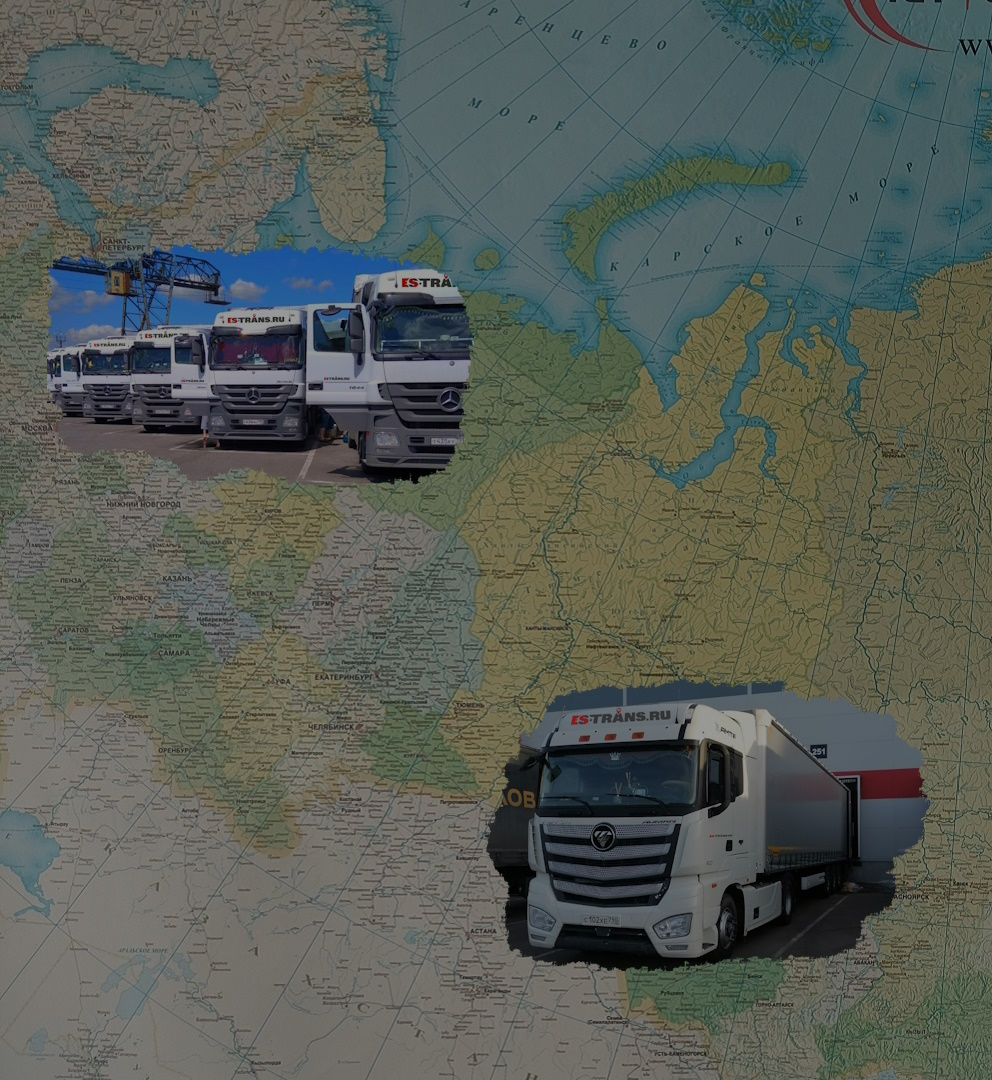
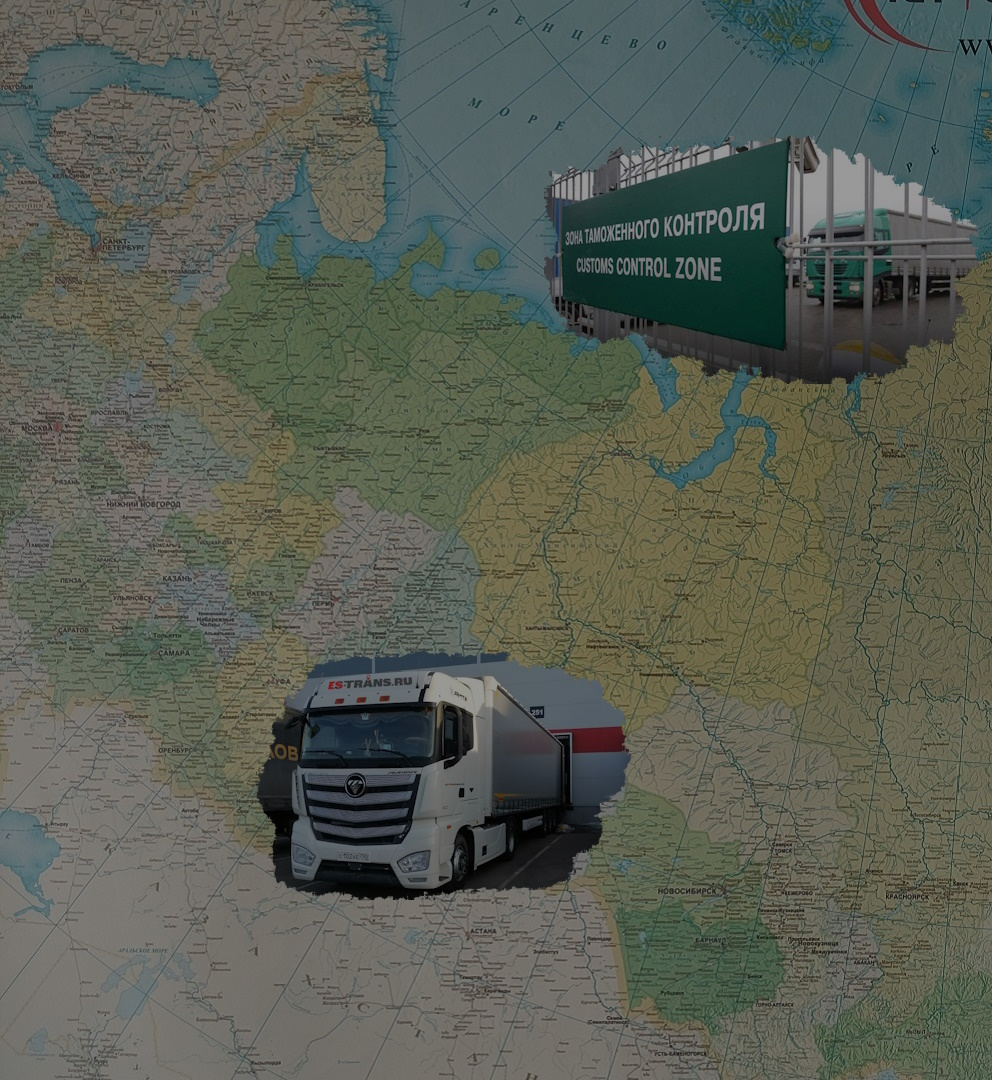
home media 490px

Changed region(s): [[0.25, 0.5806, 0.9375, 0.9167], [0.0312, 0.2139, 0.5, 0.4583], [0.5312, 0.1222, 1.0, 0.3667]]

diff --git a/src/home.html b/src/home.html
@@ -11,59 +11,64 @@
 			<section class="home" data-watch="navigator" data-watch-threshold="0.55">
 				<div class="home__container">
 					<div class="home__content">
-						<div class="home__name-block">
-							<h1 class="home__title" data-watch data-watch-once>ЕС Транс</h1>
-							<p class="home__label" data-watch data-watch-once>Доставим и растаможим</p>
+						<div class="home__content-top">
+							<div class="home__name-block">
+								<h1 class="home__title" data-watch data-watch-once>ЕС Транс</h1>
+								<p class="home__label" data-watch data-watch-once>Доставим и растаможим</p>
+							</div>
+							<div class="home__offer-wrap margin-bottom-60">
+								<ul class="home__list list">
+
+									<li class="list__item margin-bottom-10">
+										<svg class="home__icons">
+											<use xlink:href="@img/icons/icons.svg#check"></use>
+										</svg>
+										</p>
+										<p class="list__text">Автоперевозки из Европы, Китая и Турции, в том числе сборных и
+											опасных
+											грузов
+									</li>
+
+									<li class="list__item margin-bottom-10">
+										<svg class="home__icons">
+											<use xlink:href="@img/icons/icons.svg#check"></use>
+										</svg>
+										<p class="list__text">авиаперевозки из Китая, Индии и ОАЭ</p>
+									</li>
+
+									<li class="list__item margin-bottom-10">
+										<svg class="home__icons">
+											<use xlink:href="@img/icons/icons.svg#check"></use>
+										</svg>
+										<p class="list__text">Таможенное оформление грузов в разных регионах России
+										<p>
+									</li>
+
+									<li class="list__item margin-bottom-10">
+										<svg class="home__icons">
+											<use xlink:href="@img/icons/icons.svg#check"></use>
+										</svg>
+										<p class="list__text">Нотификация ФСБ, сертификация, заключение ФСТЭК, декларация
+											соответствия, лицензирование</p>
+									</li>
+
+									<li class="list__item margin-bottom-10">
+										<svg class="home__icons">
+											<use xlink:href="@img/icons/icons.svg#check"></use>
+										</svg>
+										<p class="list__text">Работаем в режиме 24/7 по принципу «одного окна»</p>
+									</li>
+
+								</ul>
+							</div>
 						</div>
-						<div class="home__offer-wrap margin-bottom-60">
-							<ul class="home__list list">
-
-								<li class="list__item margin-bottom-10">
-									<svg class="home__icons">
-										<use xlink:href="@img/icons/icons.svg#check"></use>
-									</svg>
-									</p>
-									<p class="list__text">Автоперевозки из Европы, Китая и Турции, в том числе сборных и опасных
-										грузов
-								</li>
-
-								<li class="list__item margin-bottom-10">
-									<svg class="home__icons">
-										<use xlink:href="@img/icons/icons.svg#check"></use>
-									</svg>
-									<p class="list__text">авиаперевозки из Китая, Индии и ОАЭ</p>
-								</li>
-
-								<li class="list__item margin-bottom-10">
-									<svg class="home__icons">
-										<use xlink:href="@img/icons/icons.svg#check"></use>
-									</svg>
-									<p class="list__text">Таможенное оформление грузов в разных регионах России
-									<p>
-								</li>
-
-								<li class="list__item margin-bottom-10">
-									<svg class="home__icons">
-										<use xlink:href="@img/icons/icons.svg#check"></use>
-									</svg>
-									<p class="list__text">Нотификация ФСБ, сертификация, заключение ФСТЭК, декларация
-										соответствия, лицензирование</p>
-								</li>
-
-								<li class="list__item margin-bottom-10">
-									<svg class="home__icons">
-										<use xlink:href="@img/icons/icons.svg#check"></use>
-									</svg>
-									<p class="list__text">Работаем в режиме 24/7 по принципу «одного окна»</p>
-								</li>
-
-							</ul>
-						</div>
-						<div class="home__action action">
-							<p class="action__text margin-bottom-30">Узнайте наши цены для вас!</p>
-							<button class="button offer-button preload" data-popup="#popup-form"
-								aria-label="Кнопка рассчитать стоимость">Рассчитать
-								стоимость</button>
+						<div class="home__content-bottom">
+							<div class="home__action action">
+								<p class="action__text margin-bottom-20">Узнайте наши цены для вас!</p>
+								<button class="button offer-button preload" data-popup="#popup-form"
+									aria-label="Кнопка рассчитать стоимость">Рассчитать
+									стоимость</button>
+							</div>
 						</div>
 					</div>
 				</div>
@@ -282,12 +287,18 @@
 							<img class="services__img" data-src="@img/services/services-img-2-400.jpg" width="400" height="300"
 								alt="фото автомобиля 'ЕС Транс'">
 						</div>
-						<p class="services__text margin-bottom-20">ООО "ЕС Транс" является <strong>таможенным перевозчиком</strong>. Наша компания выполняет перевозки грузов своими автомобилями и привлеченным транспортом наших партнеров.</p>
-							<p class="services__text margin-bottom-20">Все
-								автомобили оборудованы спутниковой системой отслеживания, поэтому мы можем точно определить
-								местоположение груза в режиме 24/7. Доверительные отношения с нашими клиентами – это наш приоритет, поэтомы мы предлагаем прозрачную коммуникацию на всех этапах перевозки, предоставляем информацию о статусе груза, предупреждаем о возможных задержках и оперативно реагируем на запросы и потребности клиентов.</p>
+						<p class="services__text margin-bottom-20">ООО "ЕС Транс" является <strong>таможенным
+								перевозчиком</strong>. Наша компания выполняет перевозки грузов своими автомобилями и
+							привлеченным транспортом наших партнеров.</p>
+						<p class="services__text margin-bottom-20">Все
+							автомобили оборудованы спутниковой системой отслеживания, поэтому мы можем точно определить
+							местоположение груза в режиме 24/7. Доверительные отношения с нашими клиентами – это наш приоритет,
+							поэтомы мы предлагаем прозрачную коммуникацию на всех этапах перевозки, предоставляем информацию о
+							статусе груза, предупреждаем о возможных задержках и оперативно реагируем на запросы и потребности
+							клиентов.</p>
 						<p class="services__text margin-bottom-20">Мы полностью осознаём важность точной доставки
-							грузов в срок для наших клиентов. Поэтому наша компания предлагаем надёжные графики и оптимальные маршруты,
+							грузов в срок для наших клиентов. Поэтому наша компания предлагаем надёжные графики и оптимальные
+							маршруты,
 							чтобы обеспечить своевременную и сохранную доставку груза в назначенное место.</p>
 						<p class="services__text">Наша ответственность перевозчика застрахована на сумму 15 000 000 руб.</p>
 					</div>
@@ -770,7 +781,7 @@
 				</div>
 			</section>
 			@@include('html/_action-block.htm',{})
-			<section class="contact" id="contact" data-watch="navigator" data-watch-threshold="0.3">
+			<section class="contact" data-watch="navigator" data-watch-threshold="0.45">
 				<div class="contact__container">
 					<h2 class="contact__title title">Контакты</h2>
 					<div class="contact__content">
@@ -778,43 +789,45 @@
 							<ul class="contact__list list margin-bottom-20">
 								<li class="list__item margin-bottom-20">
 									<p class="list__item-text">ООО «ЕС Транс»</p>
-									<p class="list__item-text">Наш код на бирже грузоперевозок <a class="list__item-link link"
-											href="https://ati.su/" target="_blank">ATI.SU</a>: 422346</p>
 								</li>
 								<li class="list__item margin-bottom-20">
 									<div class="list__item-wrapper">
-										<span class="list__item-icon _icon-phone-flip"></span><a href="tel:74957753078"
-											class="list__item-link link">+7 (495) 775-30-78</a>
+										<span class="list__item-icon _icon-phone-flip"></span><a class="list__item-text link"
+											href="tel:79105994697">+7 (910) 599-46-97</a>
 									</div>
 								</li>
 								<li class="list__item margin-bottom-20">
 									<div class="list__item-wrapper">
-										<span class="list__item-icon _icon-email"></span><a href="mailto:info@es-trans.pro"
-											class="list__item-link link">info@es-trans.pro</a>
+										<span class="list__item-icon _icon-email"></span><a href="mailto:sde@es-trans.pro"
+											class="list__item-text link"> sde@es-trans.pro</a>
 									</div>
 								</li>
 								<li class="list__item margin-bottom-20">
 									<div class="list__item-wrapper location">
-										<span class="list__item-icon _icon-location-dot"></span>
-										<p class="list__item-link">Россия, 125315, г. Москва, Ленинградский проспект, д. 80, кор.
-											5, офис 203</p>
+										<span class="list__item-icon list__item-icon-location _icon-location-dot"></span>
+										<p class="list__item-text">Россия, 125315, г. Москва, Ленинградский проспект, д. 80, кор.
+											5, офис 203<br>ОГРН 1065047062574</p>
 									</div>
 								</li>
 								<li class="list__item">
-									<p class="list__item-text">ОГРН 1065047062574</p>
+									<div class="list__item-wrapper location">
+										<span class="list__item-icon _icon-website-full"></span>
+										<p class="list__item-text link"><a href="https://es-trans.ru"
+												target="_blank">www.es-trans.ru</a></p>
+									</div>
+
 								</li>
 							</ul>
-							<p class=" contact__text margin-bottom-20">Для письменного общения в формате онлайн,
-								пожалуйста пишите нам в мессенджеры:</p>
+							<p class=" contact__text margin-bottom-20">Для письменного общения пишите нам в мессенджеры:</p>
 							<div class="contact__social">
-								<a class="contact__link-icon" href="https://t.me/ESTrans1" target="_blank">
-									<svg class="icon">
-										<use xlink:href="@img/icons/icons.svg#telegram"></use>
-									</svg>
-								</a>
-								<a class="contact__link-icon" href="whatsapp://send?phone=79872294675" target="_blank">
+								<a class="contact__link-icon" href="whatsapp://send?phone=79105994697" target="_blank">
 									<svg class="icon">
 										<use xlink:href="@img/icons/icons.svg#whatsapp"></use>
+									</svg>
+								</a>
+								<a class="contact__link-icon" href="https://t.me/+79105994697" target="_blank">
+									<svg class="icon">
+										<use xlink:href="@img/icons/icons.svg#telegram"></use>
 									</svg>
 								</a>
 							</div>

diff --git a/src/scss/home.scss b/src/scss/home.scss
@@ -12,11 +12,15 @@
    display: flex;
    flex-direction: column;
    justify-content: center;
-   align-items: flex-end;
+
+   @media (max-width:$tablet) {
+		padding: 0;      
+      background-image: url('./../img/bg-home-992-40.jpg');
+
+   }
 
    @media (max-width:$mobileSmall) {
-      padding: 70px 0 50px;
-      background-image: url('./../img/bg-home-480-2-40.jpg');
+      background-image: url('./../img/bg-home-480-40.jpg');
    }
 
    &__container {
@@ -25,6 +29,19 @@
 
    &__content {
       text-transform: uppercase;
+
+      @media (max-width:$tablet) {
+         height: 100vh;
+			padding: 50px 0 0px;
+         display: flex;
+         flex-direction: column;
+         justify-content: space-around;
+      }
+
+		@media (max-width:$mobileSmall) {
+			padding: 90px 0 60px;
+         justify-content: space-between;
+      }
    }
 
    &__title {
@@ -67,8 +84,8 @@
          margin-bottom: 50px;
       }
 
-		@media (max-width:$mobile) {
-         margin-bottom: 30px;
+      @media (max-width:$mobileSmall) {
+         margin-bottom: 20px;
       }
    }
 
@@ -80,6 +97,10 @@
 
    &__offer-wrap {
       max-width: 750px;
+
+      @media (max-width:$tablet) {
+         max-width: 600px;
+      }
    }
 
    &__icons {
@@ -110,34 +131,46 @@
       font-weight: 500;
    }
 
-	.list {
-		&__item {
-			display: flex;
-			margin-bottom: toEm(35, 25);
+   .list {
+      &__item {
+         display: flex;
+         margin-bottom: toEm(35, 25);
 
-			@media (max-width: $mobile) {
-				margin-bottom: 20px;
-			}
-	
-			p {
-				text-transform: uppercase;
-				font-size: 25px;
-				font-weight: 500;
-				line-height: 1.2;
-				text-shadow: 0 0 5px $mainColor;
-	
+			@media (max-width: 1500px) {
+            margin-bottom: 20px;
+         }
+
+         @media (max-width: $mobile) {
+            margin-bottom: 20px;
+         }
+
+			@media (max-width: $mobileSmall) {
+            margin-bottom: 15px;
+         }
+
+         p {
+            text-transform: uppercase;
+            font-size: toRem(25);
+            font-weight: 500;
+            line-height: 1.2;
+            text-shadow: 0 0 5px $mainColor;
+
 				@media (max-width:1500px) {
-					font-size: calc(toRem(16) + 3*((100vw - 320px) / (1500 - 320)));
-				}
-				
-			}
-		}
-	}
-	
+               font-size: 20px;
+            }
+
+            @media (max-width:$tablet) {
+               font-size: calc(toRem(16) + 9*((100vw - 320px) / (1500 - 320)));
+            }
+
+         }
+      }
+   }
+
 }
 
 .action__text {
-	text-shadow: 0 0 5px $mainColor;
+   text-shadow: 0 0 5px $mainColor;
 }
 
 .preload {

diff --git a/src/html/_header.htm b/src/html/_header.htm
@@ -17,7 +17,7 @@
 			<div class="menu__icon-wrapper">
 				<ul class="menu__social social">
 					<li class="social__item">
-						<a class="social__link" target="_blank" href="whatsapp://send?phone=79039609478">
+						<a class="social__link" target="_blank" href="whatsapp://send?phone=79105994697">
 							<svg class="social__icon">
 								<use xlink:href="@img/icons/icons.svg#whatsapp"></use>
 							</svg>
@@ -25,7 +25,7 @@
 					</li>
 					<li class="social__item">
 						<div class="opening-hours-telephone">
-							<a class="telephone link" href="tel:74957753078">+7 (495) 775-30-78</a>
+							<a class="telephone link" href="tel:79105994697">+7 (910) 599-46-97</a>
 							<p class="opening-hours">с 09.00 до 18.00</p>
 						</div>
 					</li>

diff --git a/src/html/_header-back.htm b/src/html/_header-back.htm
@@ -6,7 +6,7 @@
 		<div class="menu__icon-wrapper">
 			<ul class="menu__social social">
 				<li class="social__item">
-					<a class="social__link" target="_blank" href="whatsapp://send?phone=79039609478">
+					<a class="social__link" target="_blank" href="whatsapp://send?phone=79105994697">
 						<svg class="social__icon">
 							<use xlink:href="@img/icons/icons.svg#whatsapp"></use>
 						</svg>
@@ -14,7 +14,7 @@
 				</li>
 				<li class="social__item">
 					<div class="opening-hours-telephone">
-						<a class="telephone link" href="tel:74957753078">+7 (495) 775-30-78</a>
+						<a class="telephone link" href="tel:79105994697">+7 (910) 599-46-97</a>
 						<p class="opening-hours">с 09.00 до 18.00</p>
 					</div>
 				</li>

diff --git a/src/html/_footer.htm b/src/html/_footer.htm
@@ -12,5 +12,5 @@
 </footer>
 
 <div class="chatme" data-lp>
-	<div class="chatme__icon"><a class="chatme__link" href="https://t.me/ESTrans1" target="_blank"></a></div>
+	<div class="chatme__icon"><a class="chatme__link" href="https://t.me/+79105994697" target="_blank"></a></div>
 </div>

diff --git a/src/scss/footer.scss b/src/scss/footer.scss
@@ -76,7 +76,7 @@
 
    @media (max-width: $mobileSmall) {
       right: 10px;
-      bottom: 30px;
+      bottom: 15px;
    }
 }
 
